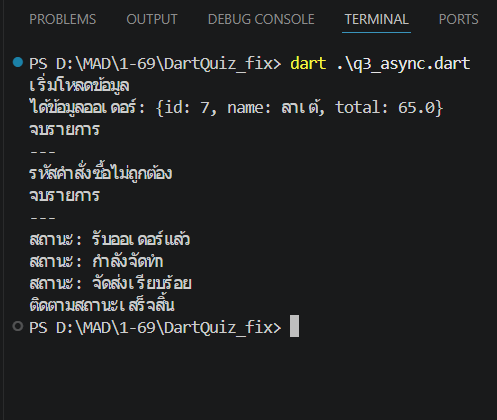
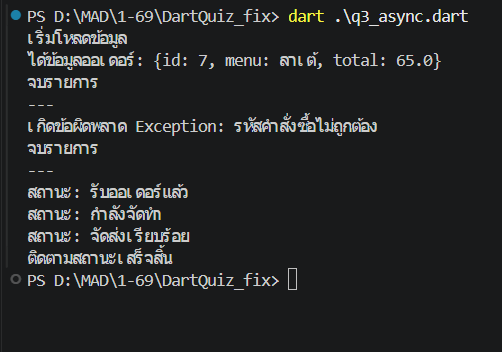
real last update

Changed region(s): [[0.0, 0.0, 0.9658, 0.8125]]

diff --git a/q3_async.dart b/q3_async.dart
@@ -1,12 +1,12 @@
 Future<Map<String,dynamic>> fetchOrder(int orderid) async{
   await Future.delayed(Duration(seconds: 2));
   if (orderid <= 0) {
-    throw Exception("เกิดข้อผิดพลาด");
+    throw Exception("รหัสคำสั่งซื้อไม่ถูกต้อง");
   }
 
   return {
     "id" : orderid,
-    "name" : "ลาเต้",
+    "menu" : "ลาเต้",
     "total" : 65.0,
   };
 }
@@ -27,7 +27,7 @@ void main() async {
     var order = await fetchOrder(7);
     print("ได้ข้อมูลออเดอร์: $order");
   } catch (e) {
-    print("รหัสคำสั่งซื้อไม่ถูกต้อง");
+    print("เกิดข้อผิดพลาด $e");
   } finally {
     print("จบรายการ");
   }
@@ -36,7 +36,7 @@ void main() async {
     var order = await fetchOrder(0);
     print("ได้ข้อมูลออเดอร์: $order");
   } catch (e) {
-    print("รหัสคำสั่งซื้อไม่ถูกต้อง");
+    print("เกิดข้อผิดพลาด $e");
   } finally {
     print("จบรายการ");
   }

diff --git a/q2_oop.dart b/q2_oop.dart
@@ -55,7 +55,7 @@ class Wallet{
     if (amount >= 0){
       _balance = amount;
     } else{
-      print("ยอกเงินติดลบไม่ได้");
+      print("ยอดเงินติดลบไม่ได้");
     }
   }
 